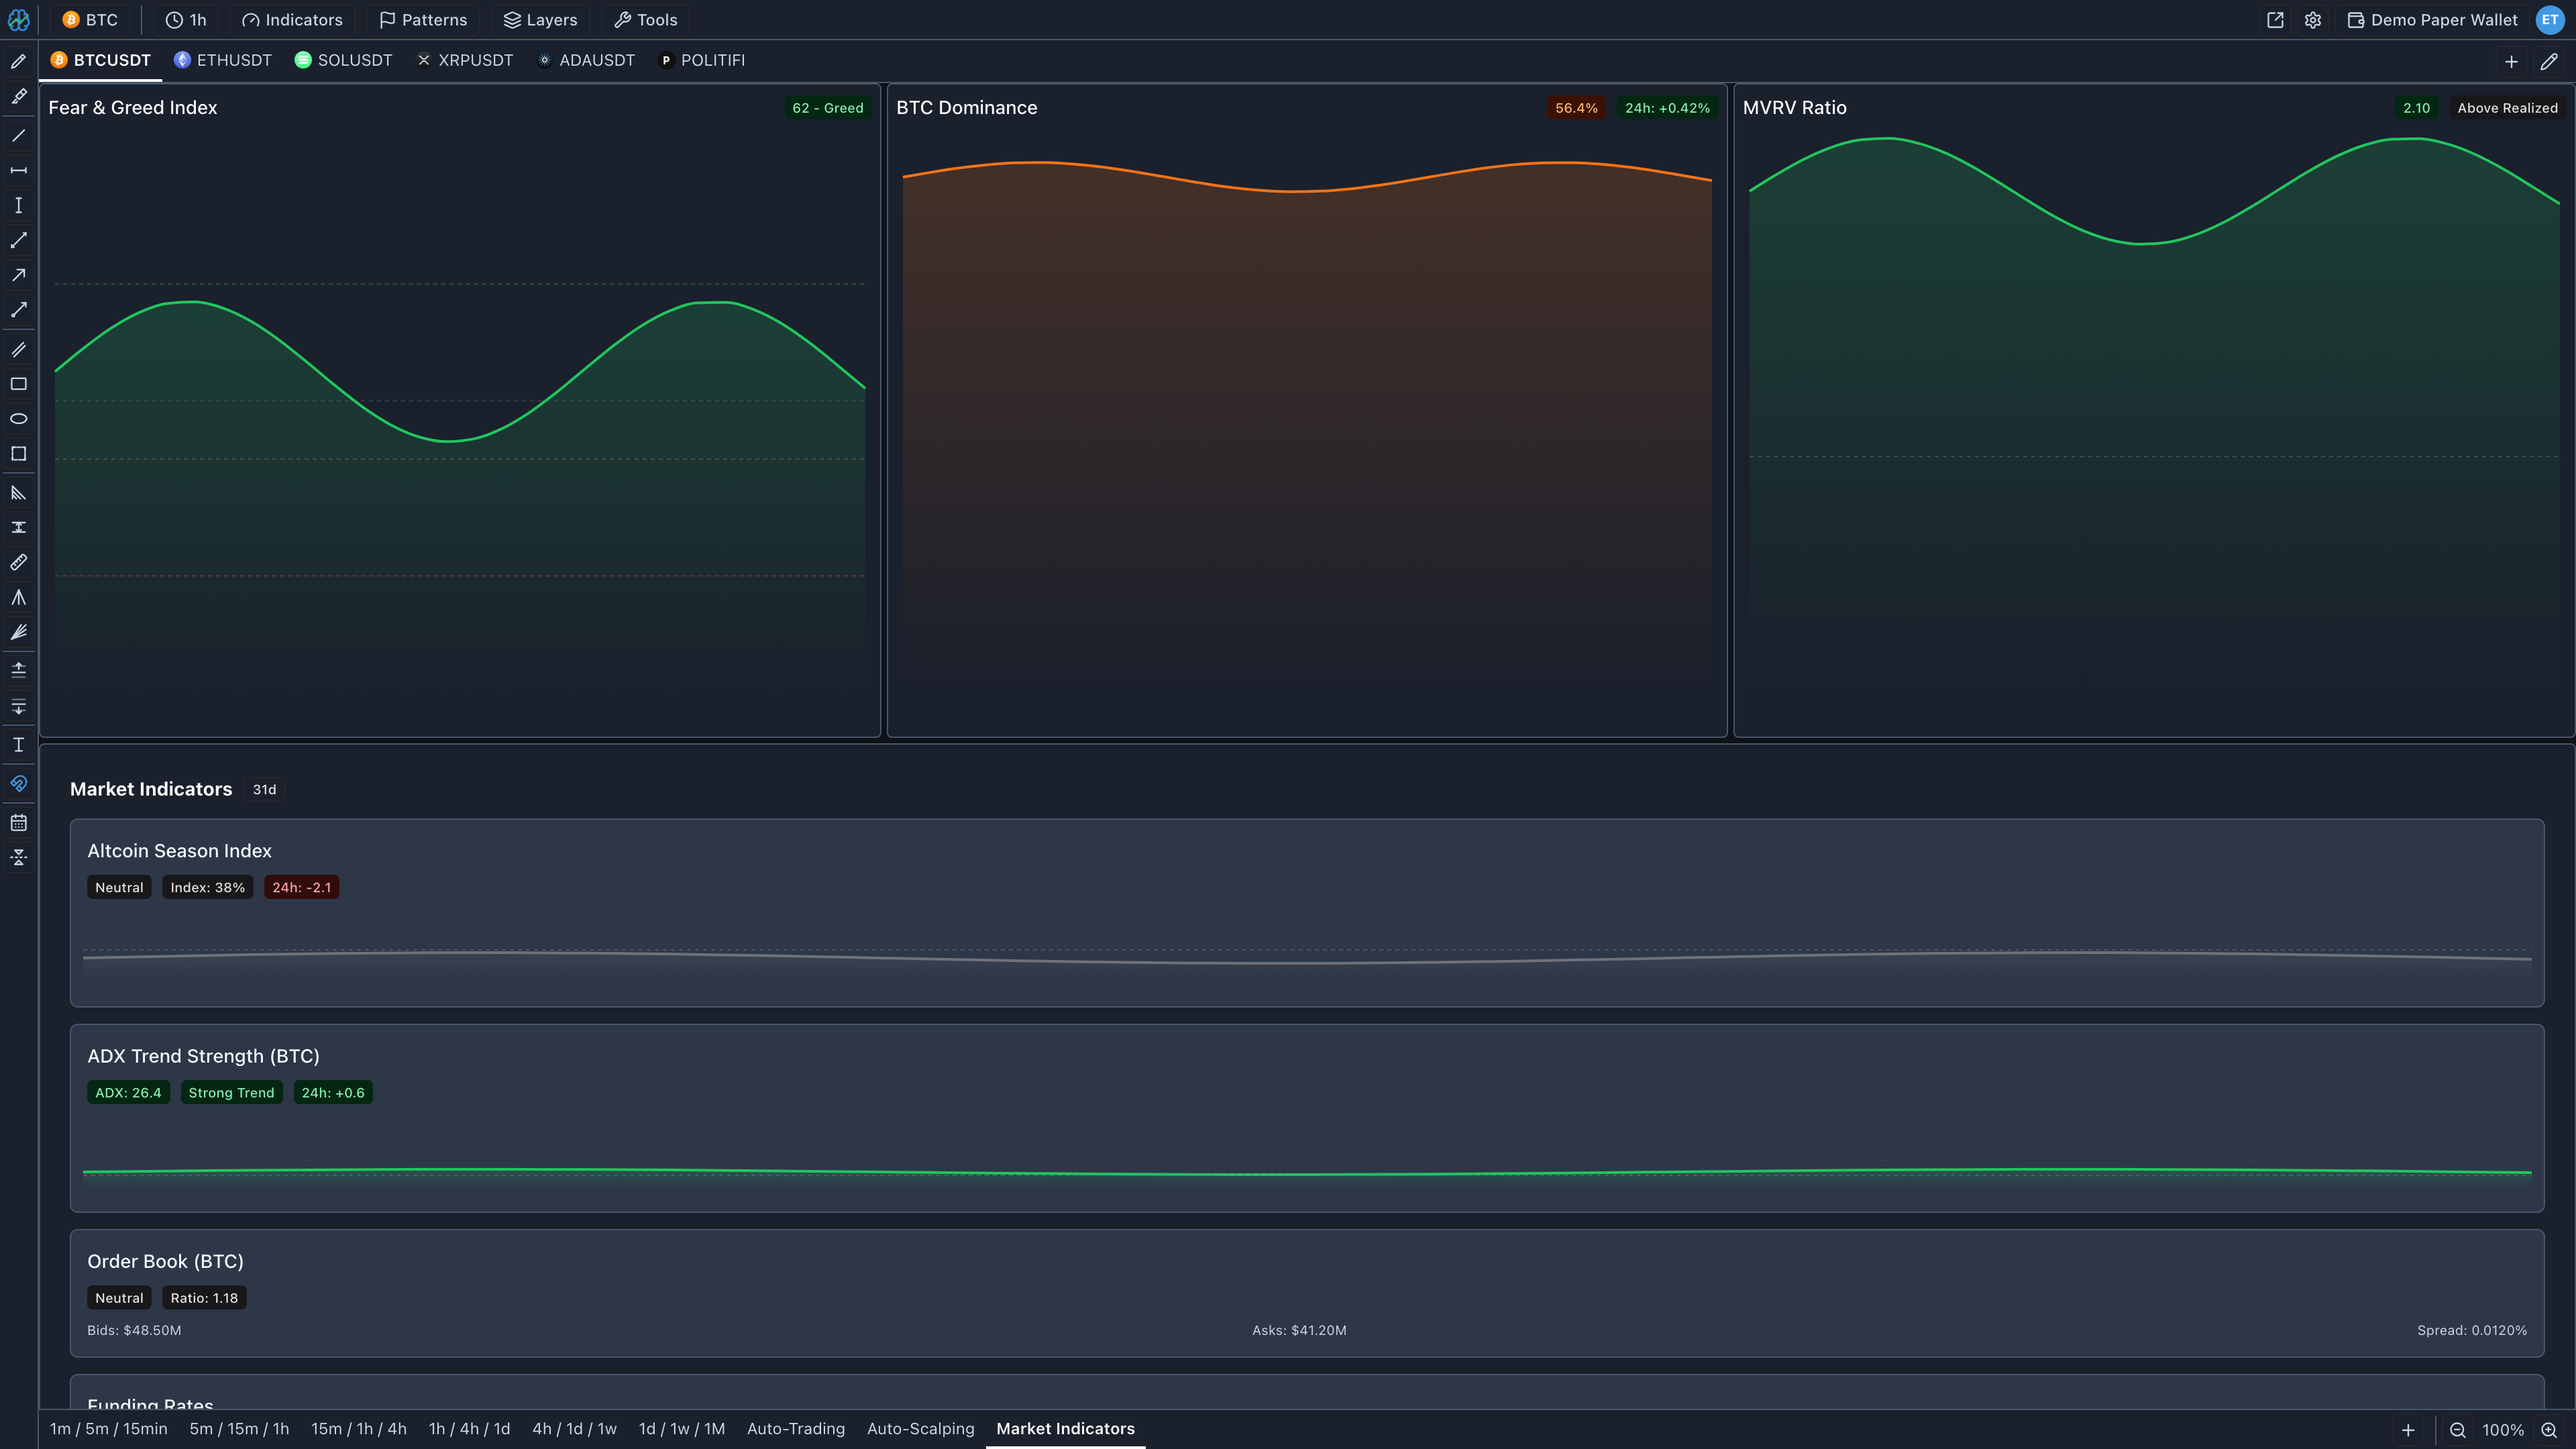
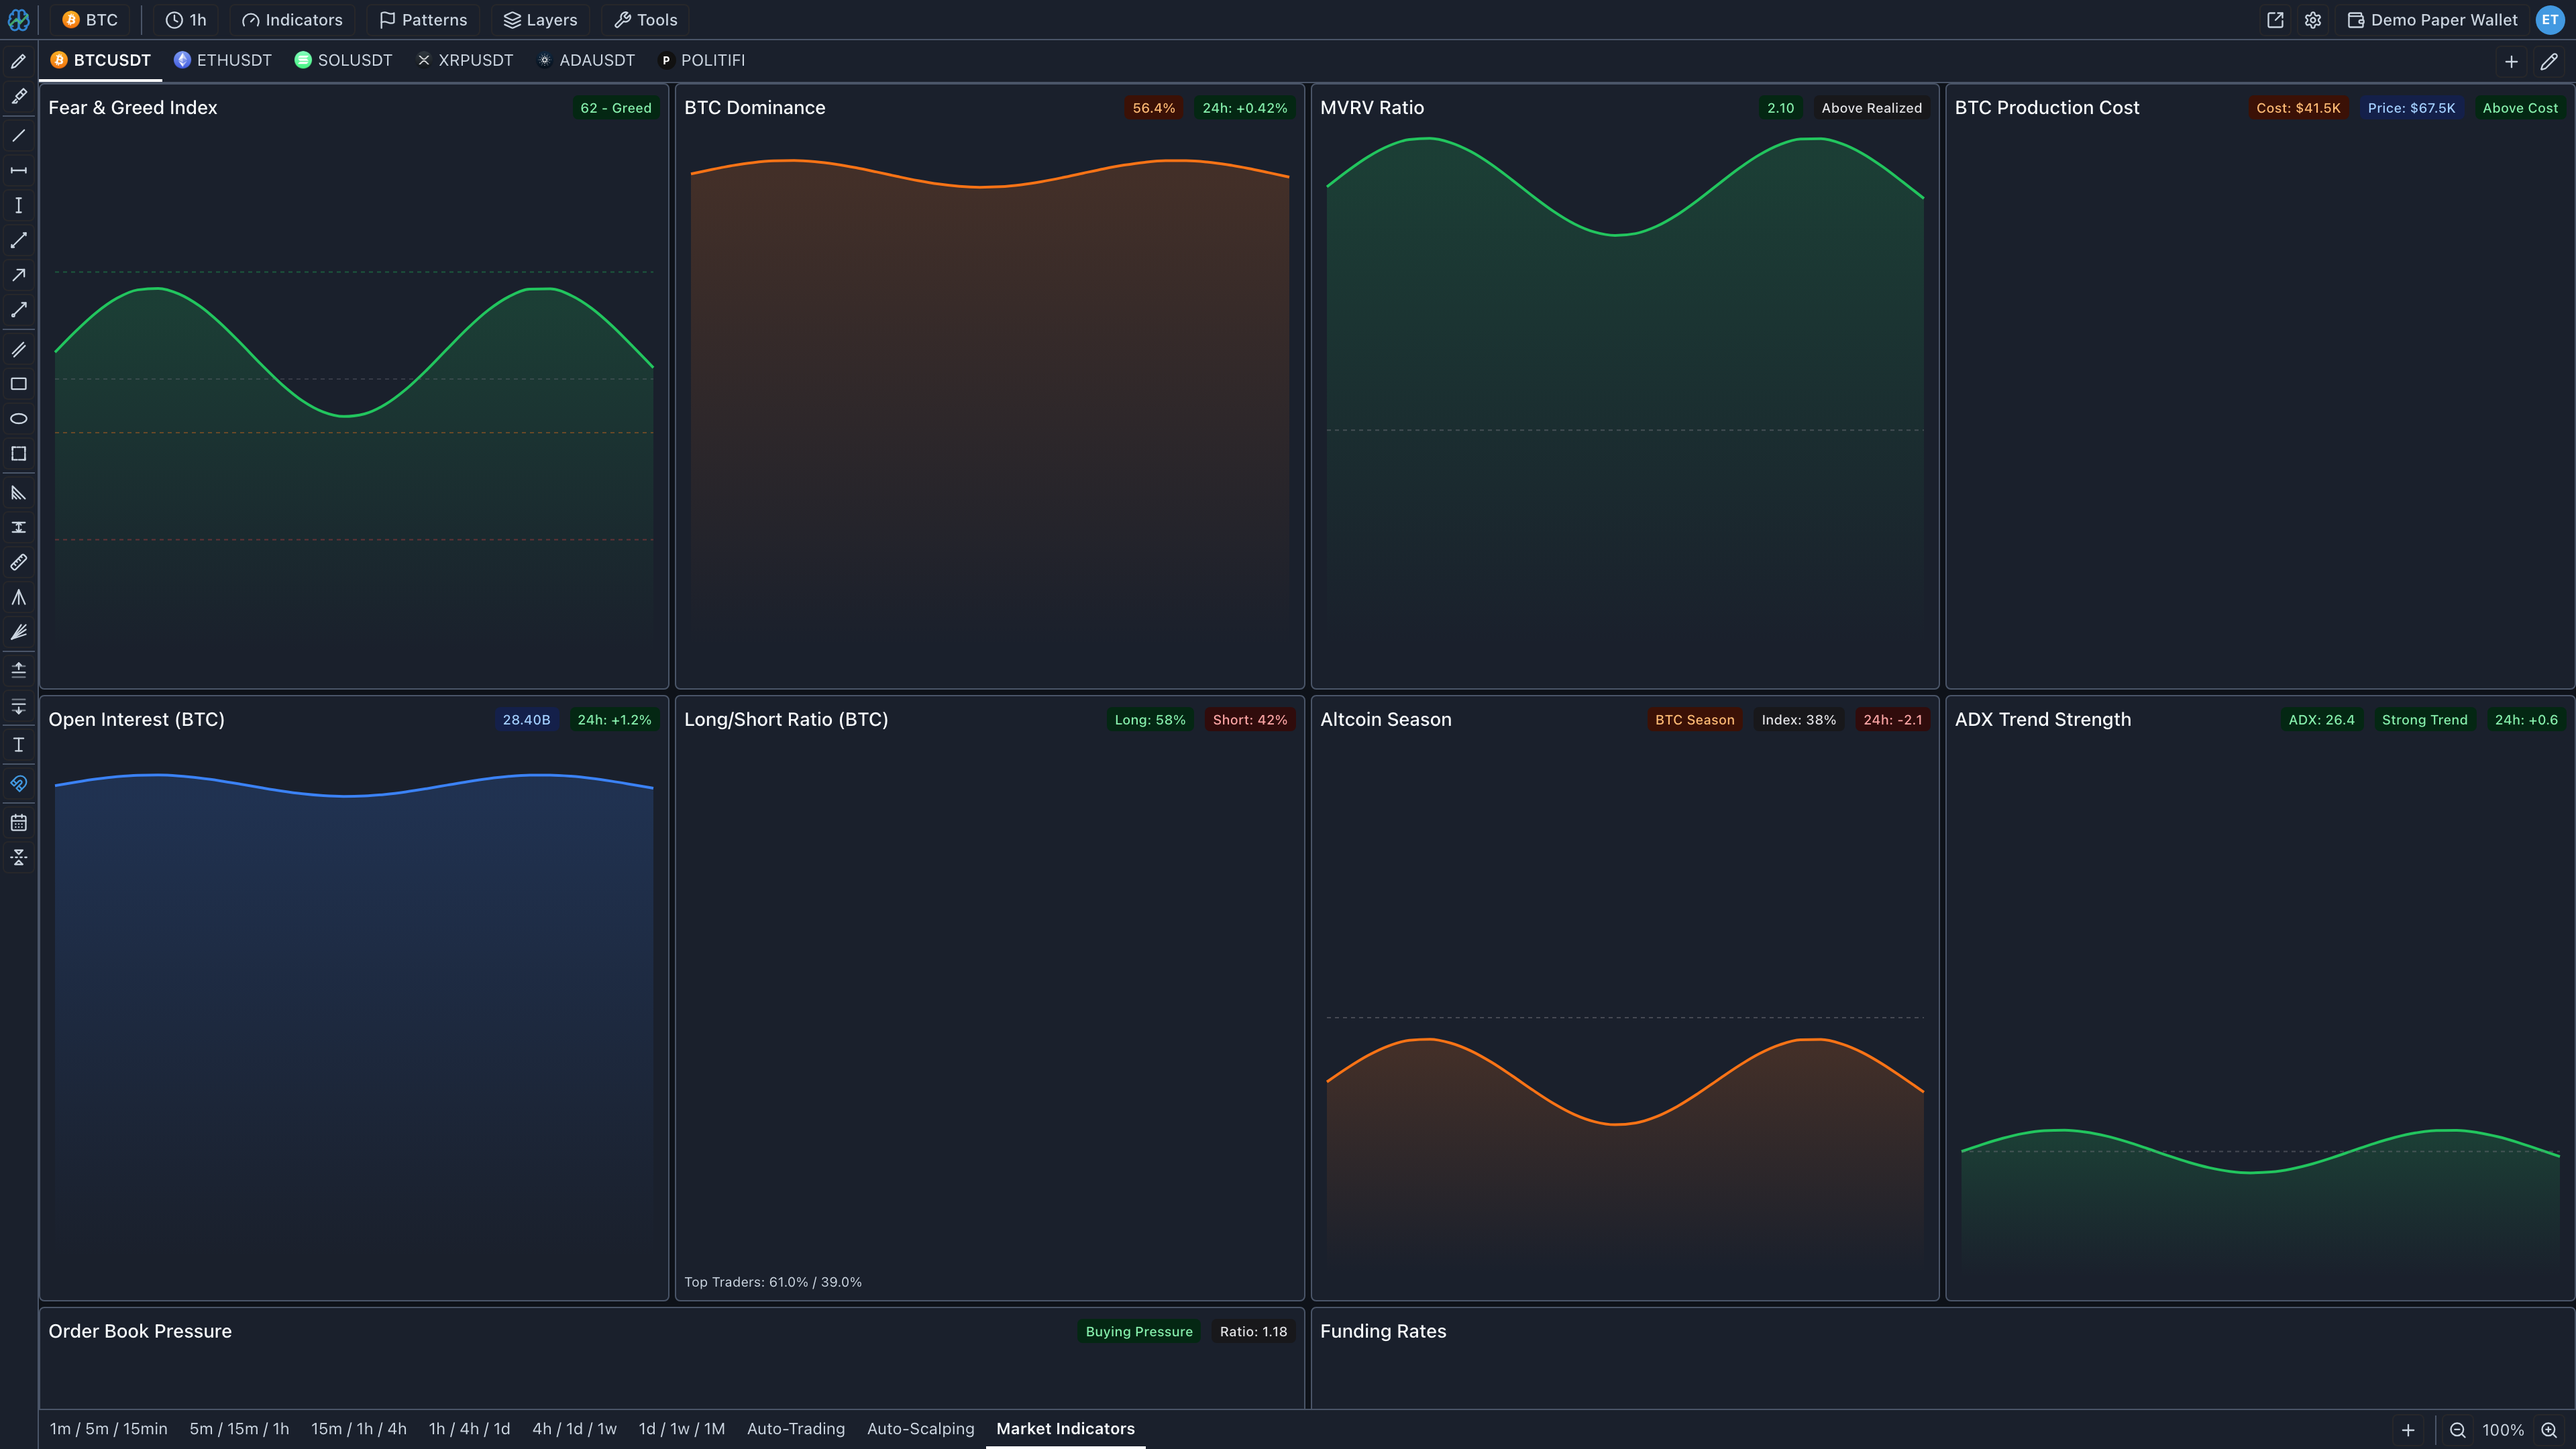
chore: v1.25.0 — bump version + regenerate screenshots (Market Indicators split)
- Version v1.24.0 → v1.25.0.
- Regenerate marketing screenshots: the Market Indicators dashboard now shows
  ten individual indicator panels (Fear & Greed, BTC Dominance, MVRV, Production
  Cost, Open Interest, Long/Short, Altcoin Season, ADX, Order Book Pressure,
  Funding Rates) instead of the aggregate panel.

🤖 Generated with [Claude Code](https://claude.com/claude-code)

diff --git a/src/config/site.ts b/src/config/site.ts
@@ -19,6 +19,6 @@ export const siteConfig = {
     indicators: '35+',
     languages: '4',
     exchanges: '1',
-    version: 'v1.24.0',
+    version: 'v1.25.0',
   },
 } as const;
